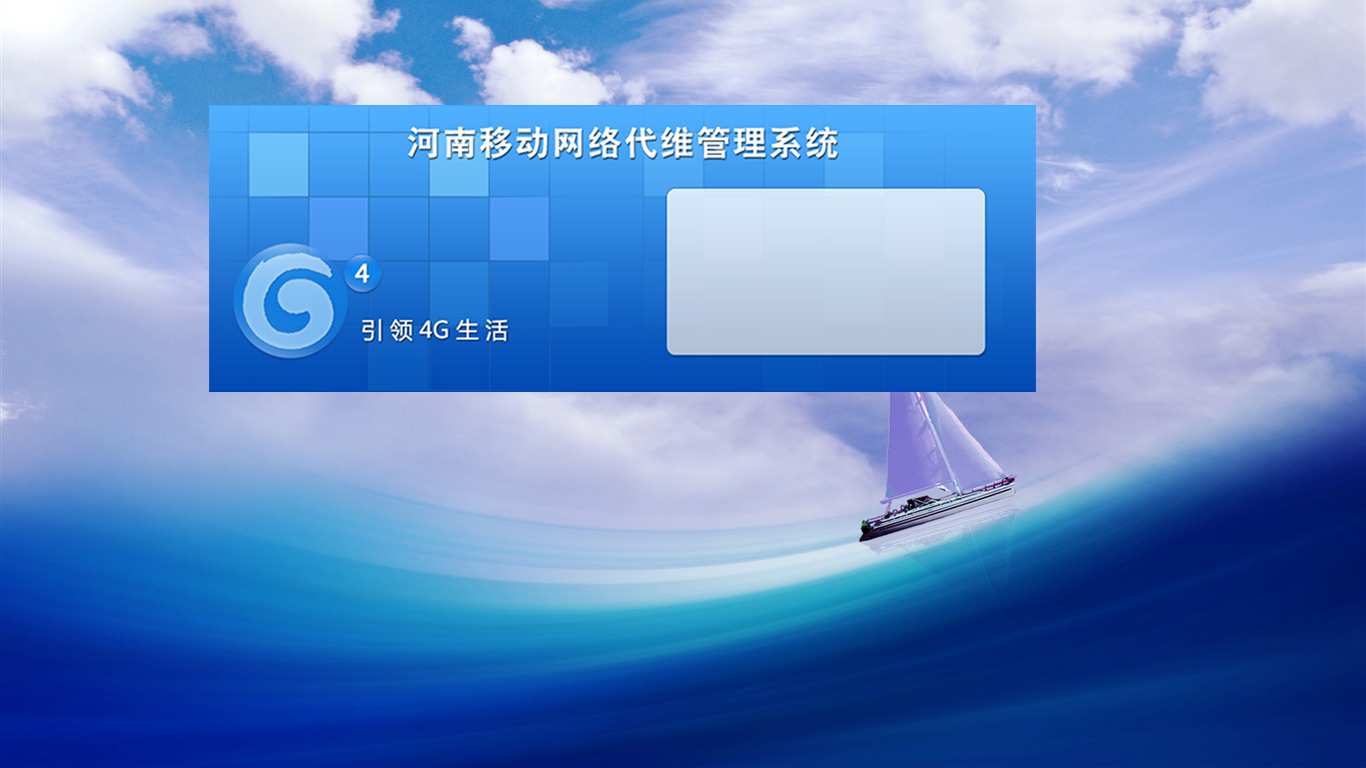
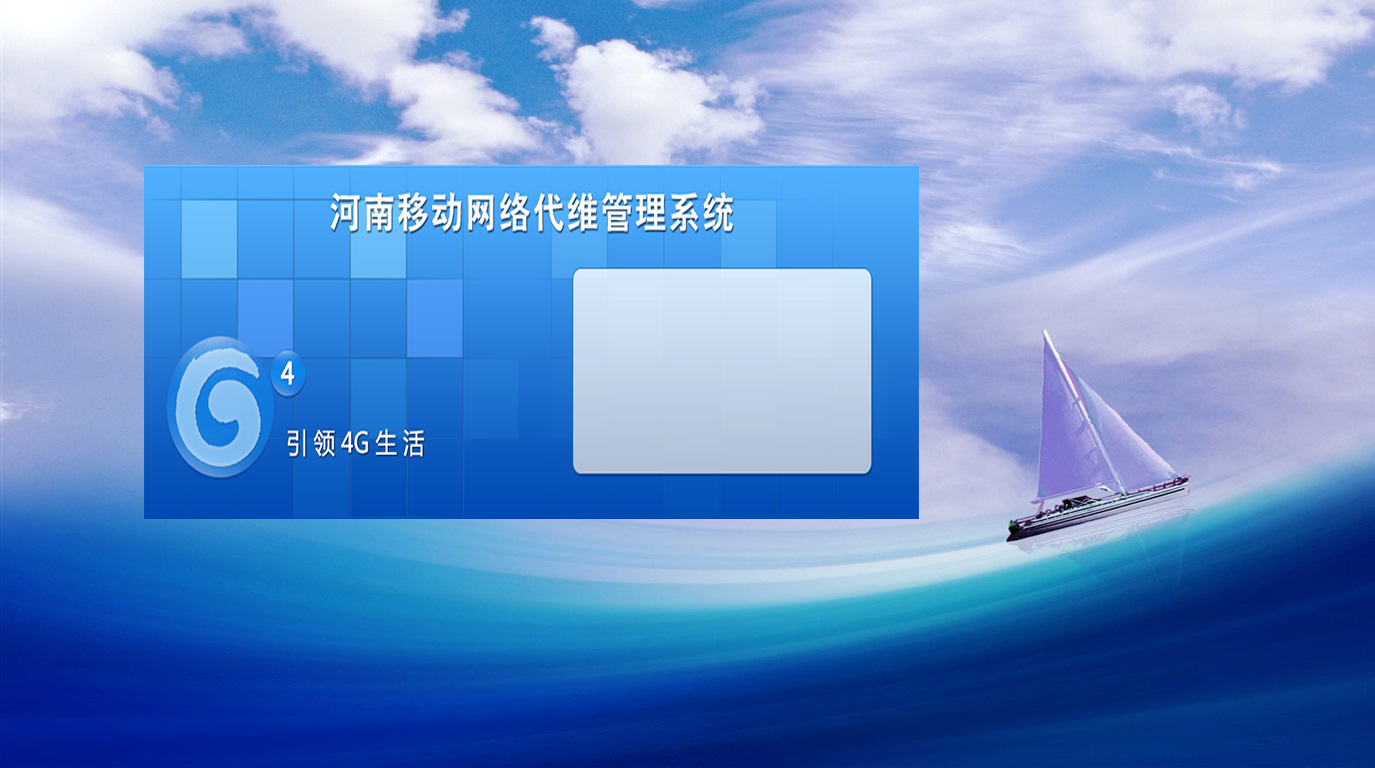
提交人：唐天雨 提交原因：登录页面 提交时间：20190507

diff --git a/src/main/resources/templates/login.html b/src/main/resources/templates/login.html
@@ -26,10 +26,10 @@
 
     <div class="signinpanel">
         <div class="row">
-            <div class="col-sm-7">
+            <div class="col-sm-7" style="margin-top: 129px;margin-left: -125px;margin-right:125px ">
                 <div class="signin-info">
                     <div class="m-b"></div>
-                    <h2>欢迎使用 <strong>河南移动代维管理系统</strong></h2>
+                    <span style="font-size: 22px">欢迎使用 <strong>河南移动代维管理系统</strong></span>
                     <ul class="m-b">
                         <li><i class="fa fa-arrow-circle-o-right m-r-xs"></i> 分配站点或资源</li>
                         <li><i class="fa fa-arrow-circle-o-right m-r-xs"></i> 制定巡检计划</li>
@@ -40,15 +40,15 @@
 
                 </div>
             </div>
-            <div class="col-sm-5">
-                <form id="signupForm" style="padding-top: 10px;background: none;border: none">
-                    <table style="border: none">
+            <div class="col-sm-5" style="margin-top: 129px;margin-left: -180px;">
+                <form id="signupForm" style="padding-top: 10px;background: none;border: none;width: 297px">
+                    <table style="border: none;border-bottom: none;line-height: 100%">
                         <tr>
-                            <td class="col-lg-5">用户名：</td>
+                            <td class="col-lg-5" style="color: black;padding-top: 15px">用户名：</td>
                             <td><input type="text"     name="username" class="form-control uname"     placeholder="用户名" value="admin"    /></td>
                         </tr>
                         <tr>
-                            <td class="col-lg-5">密码：</td>
+                            <td class="col-lg-5"style="color: black;padding-top: 15px">密码：</td>
                             <td><input type="password" name="password" class="form-control pword"     placeholder="密码"   value="admin123" /></td>
                         </tr>
                     </table>

diff --git a/src/main/resources/templates/main.html b/src/main/resources/templates/main.html
@@ -104,10 +104,6 @@ $(function () {
         var myChart = echarts.init(document.getElementById('line'));
         $.get("/system/stagnationCount/stagnationByMonth?stagnationId="+stagnationId).done(
             function(data) {
-                console.log(data)
-                console.log(data.monthResources)
-                console.log(data.monthFinishedResources)
-
                 // 指定图表的配置项和数据
                 myChart.setOption({
                     title : {
